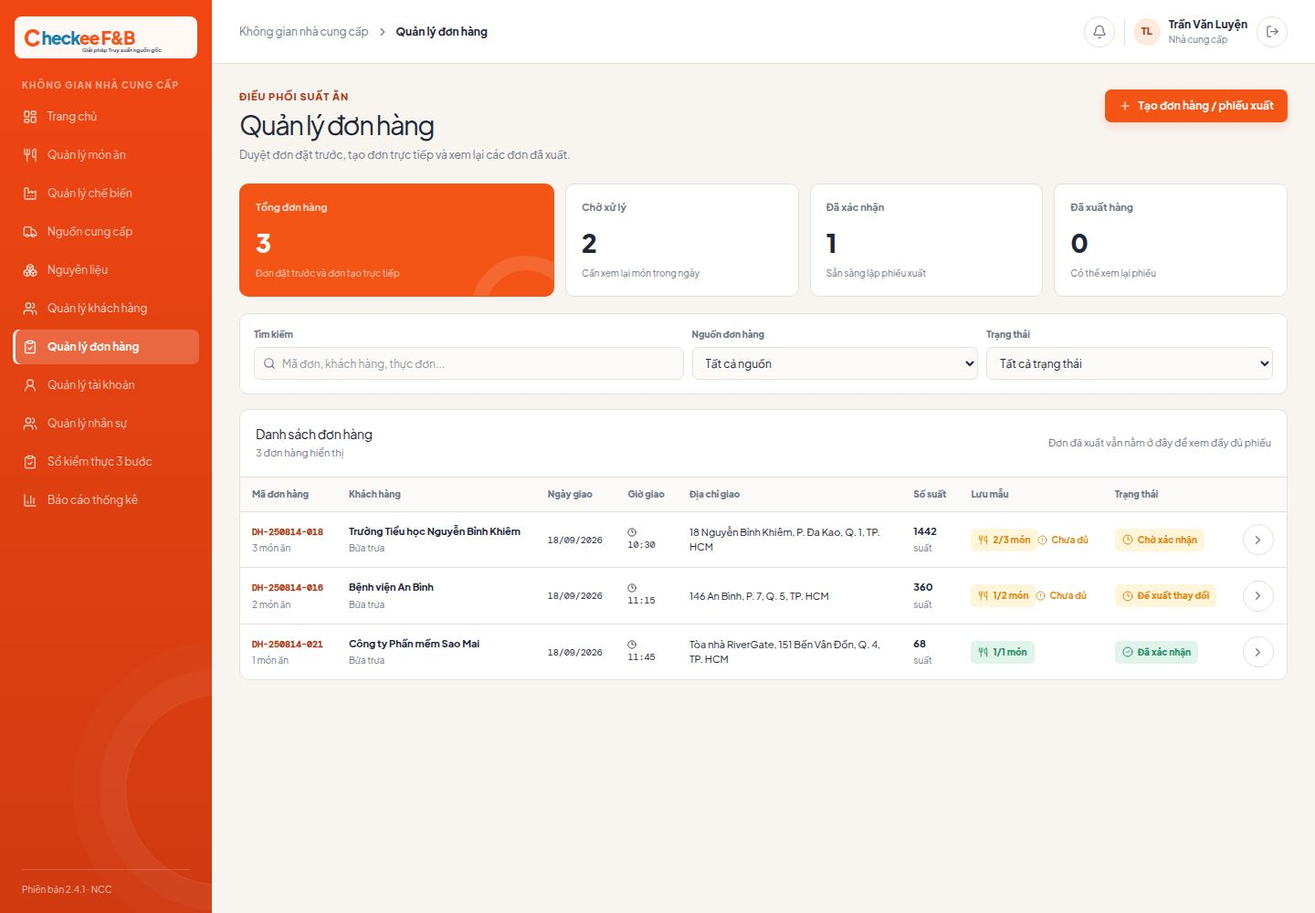
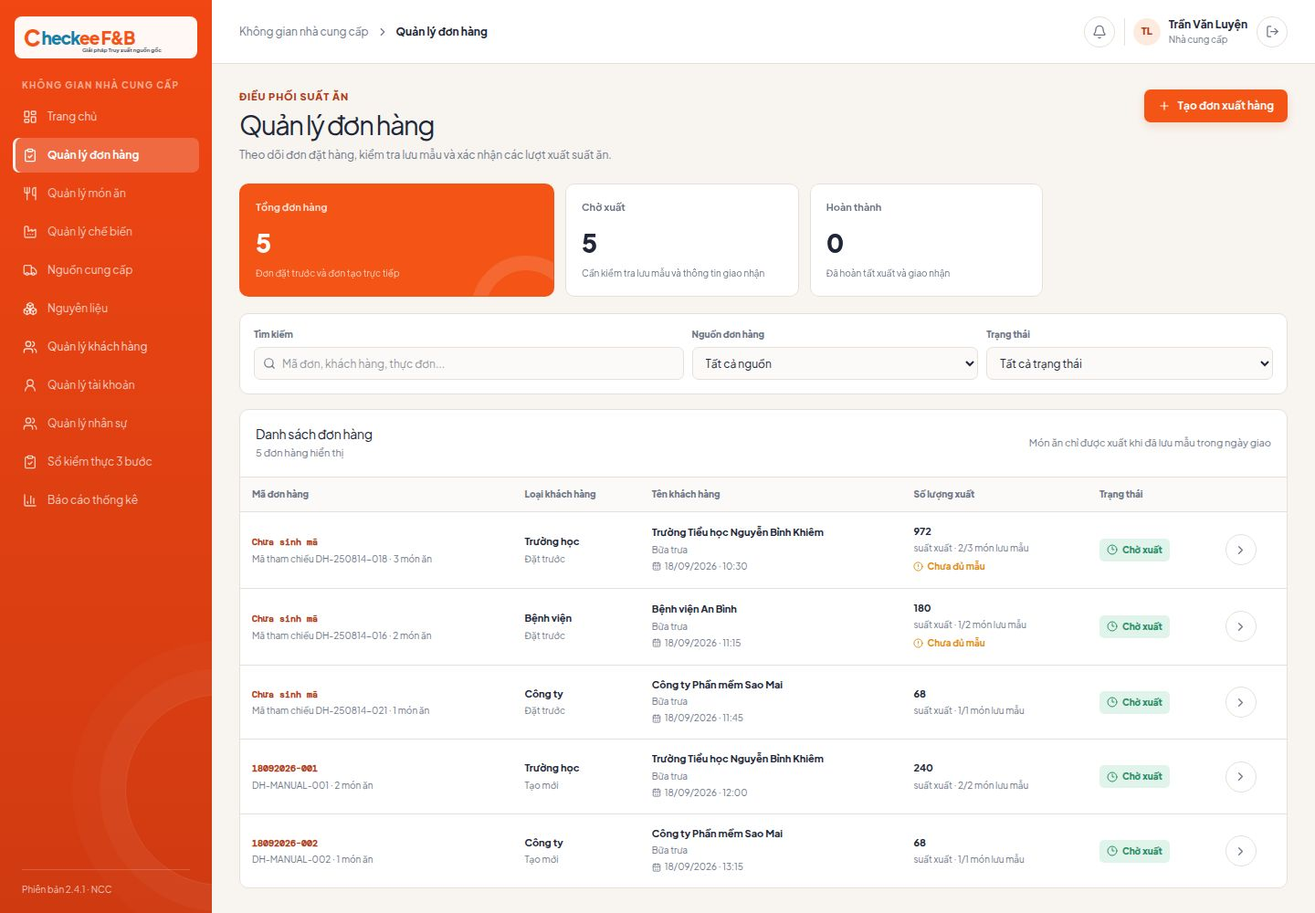
đơn hàng

diff --git a/artifacts/checkee-fnb/src/pages/business-workflows.tsx b/artifacts/checkee-fnb/src/pages/business-workflows.tsx
@@ -230,7 +230,7 @@ export type CreateDispatchSlipInput = {
 };
 
 const CUSTOMER_STORAGE = 'checkee-fnb-customers-v1';
-const ORDER_STORAGE = 'checkee-fnb-orders-v1';
+const ORDER_STORAGE = 'checkee-fnb-orders-v3';
 const dateOnly = (date: Date) => date.toISOString().slice(0, 10);
 const today = dateOnly(new Date());
 const inDays = (days: number) => dateOnly(new Date(Date.now() + days * 86400000));
@@ -239,7 +239,7 @@ const displayDate = (value: string) => new Intl.DateTimeFormat('vi-VN', { day: '
 const batchCodeFor = (date: string, sequence: number) => {
   if (!date) return '';
   const [year, month, day] = date.split('-');
-  return `${day}${month}${year}-${String(sequence).padStart(2, '0')}`;
+  return `${day}${month}${year}-${String(sequence).padStart(3, '0')}`;
 };
 const sampleStatus = (item: OrderItem) => item.sampleStatus ?? 'Chưa lưu';
 const MEAL_OPTIONS = ['Sáng', 'Trưa', 'Xế', 'Tối'] as const;
@@ -338,6 +338,7 @@ const seedCustomers: CustomerRecord[] = [
 const seedOrders: OrderRecord[] = [
   {
     id: 'DH-250814-018',
+    orderCode: undefined,
     customerId: 'KH-001',
     customer: 'Trường Tiểu học Nguyễn Bỉnh Khiêm',
     source: 'A',
@@ -345,7 +346,7 @@ const seedOrders: OrderRecord[] = [
     meal: 'Bữa trưa',
     deliveryDate: today,
     deliveryTime: '10:30',
-    status: 'Chờ xác nhận',
+    status: 'Đã xuất hàng',
     unitPrice: 26000,
     createdAt: new Date().toISOString(),
     items: [
@@ -356,6 +357,7 @@ const seedOrders: OrderRecord[] = [
   },
   {
     id: 'DH-250814-016',
+    orderCode: undefined,
     customerId: 'KH-002',
     customer: 'Bệnh viện An Bình',
     source: 'A',
@@ -374,9 +376,10 @@ const seedOrders: OrderRecord[] = [
   },
   {
     id: 'DH-250814-021',
+    orderCode: undefined,
     customerId: 'KH-003',
     customer: 'Công ty Phần mềm Sao Mai',
-    source: 'B',
+    source: 'A',
     menu: 'Suất văn phòng tiêu chuẩn',
     meal: 'Bữa trưa',
     deliveryDate: today,
@@ -386,6 +389,45 @@ const seedOrders: OrderRecord[] = [
     createdAt: new Date(Date.now() - 7200000).toISOString(),
     items: [
       { id: 'oi-6', dish: 'Cơm gà nướng mật ong', meal: 'Bữa trưa', requestedQuantity: 68, supplierQuantity: 68, sampleStatus: 'Đã lưu', sampleSavedAt: '10:40' },
+    ],
+  },
+  {
+    id: 'DH-MANUAL-001',
+    orderCode: batchCodeFor(today, 1),
+    customerId: 'KH-001',
+    customer: 'Trường Tiểu học Nguyễn Bỉnh Khiêm',
+    customerType: 'Trường học',
+    source: 'B',
+    menu: 'Mì trộn hải sản · Trứng gà',
+    meal: 'Bữa trưa',
+    deliveryDate: today,
+    deliveryTime: '12:00',
+    deliveryAddress: '18 Nguyễn Bỉnh Khiêm, P. Đa Kao, Q. 1, TP. HCM',
+    status: 'Đã xác nhận',
+    unitPrice: 26000,
+    createdAt: new Date(Date.now() - 10800000).toISOString(),
+    items: [
+      { id: 'oi-7', dish: 'Mì trộn hải sản', meal: 'Bữa trưa', requestedQuantity: 120, supplierQuantity: 120, sampleStatus: 'Đã lưu', sampleSavedAt: '10:20' },
+      { id: 'oi-8', dish: 'Trứng gà', meal: 'Bữa trưa', requestedQuantity: 120, supplierQuantity: 120, sampleStatus: 'Đã lưu', sampleSavedAt: '10:25' },
+    ],
+  },
+  {
+    id: 'DH-MANUAL-002',
+    orderCode: batchCodeFor(today, 2),
+    customerId: 'KH-003',
+    customer: 'Công ty Phần mềm Sao Mai',
+    customerType: 'Công ty',
+    source: 'B',
+    menu: 'Cơm gà nướng mật ong',
+    meal: 'Bữa trưa',
+    deliveryDate: today,
+    deliveryTime: '13:15',
+    deliveryAddress: 'Tòa nhà RiverGate, 151 Bến Vân Đồn, Q. 4, TP. HCM',
+    status: 'Chờ xác nhận',
+    unitPrice: 38000,
+    createdAt: new Date(Date.now() - 14400000).toISOString(),
+    items: [
+      { id: 'oi-9', dish: 'Cơm gà nướng mật ong', meal: 'Bữa trưa', requestedQuantity: 68, supplierQuantity: 68, sampleStatus: 'Đã lưu', sampleSavedAt: '10:40' },
     ],
   },
 ];
@@ -634,7 +676,7 @@ function OrderForm({ customers, onSave, onCancel }: { customers: CustomerRecord[
       deliveryAddress: deliveryAddress.trim(),
       lotCode: generatedLotCode,
       traceability: traceabilityForItems(items, deliveryDate),
-      exportedAt: '',
+      exportedAt: new Date().toISOString(),
     };
     const missingDispatch: string[] = [];
     if (!draftDispatch.exporterName.trim()) missingDispatch.push('Tên người giao hàng');
@@ -656,7 +698,7 @@ function OrderForm({ customers, onSave, onCancel }: { customers: CustomerRecord[
       deliveryDate,
       deliveryTime,
       deliveryAddress: deliveryAddress.trim(),
-      status: 'Chờ xác nhận',
+      status: 'Đã xuất hàng',
       unitPrice: 0,
       changeRequest: note.trim() || undefined,
       dispatch: draftDispatch,
@@ -717,34 +759,38 @@ export function OrderManagement({ createSlip }: { createSlip: (input: CreateDisp
     return (!search || query.includes(search.toLowerCase())) && (source === 'Tất cả nguồn' || order.source === source) && (status === 'Tất cả trạng thái' || orderStatusLabel(order.status) === status);
   }), [orders, search, source, status]);
   const renderOrderRow = (order: OrderRecord) => {
-    const quantity = Math.max(...order.items.map((item) => item.supplierQuantity), 0);
+    const exportList = order.exportItems
+      ?? (order.source === 'A'
+        ? order.items.filter((item) => order.exportItemIds ? order.exportItemIds.includes(item.id) : sampleStatus(item) === 'Đã lưu')
+        : order.items);
+    const quantity = exportList.reduce((sum, item) => sum + item.supplierQuantity, 0);
     const savedSamples = order.items.filter((item) => sampleStatus(item) === 'Đã lưu').length;
     const samplesComplete = savedSamples === order.items.length;
     const customer = customers.find((item) => item.id === order.customerId);
     return (
       <tr key={order.id} data-testid={`row-order-${order.id}`}>
         <td>
-          <Link href={`/quan-ly-don-hang/${order.id}`} className="slip-link mono" data-testid={`link-order-${order.id}`}>
-            {order.orderCode ?? 'Chưa sinh mã'}
-          </Link>
-          <span className="subtext">{orderListReference(order)}</span>
+          {order.orderCode ? <>
+            <Link href={`/quan-ly-don-hang/${order.id}`} className="slip-link mono" data-testid={`link-order-${order.id}`}>
+              {order.orderCode}
+            </Link>
+            <span className="subtext">{orderListReference(order)}</span>
+          </> : null}
         </td>
-        <td><span className="customer-name">{order.customer}</span><span className="subtext">{order.meal}</span></td>
-        <td><span className="mono">{displayDate(order.deliveryDate)}</span></td>
-        <td><span className="mono"><Clock3 size={10} style={{ verticalAlign: 'middle', marginRight: 3 }} />{order.deliveryTime}</span></td>
-        <td><span className="address-cell">{order.deliveryAddress || customer?.deliveryAddress || 'Chưa cập nhật'}</span></td>
-        <td><strong>{quantity}</strong><span className="subtext">suất</span></td>
-        <td>
-          <span className={`badge ${samplesComplete ? 'badge-pass' : 'badge-warn'}`}><Utensils size={11} />{savedSamples}/{order.items.length} món</span>
-          {!samplesComplete && <span className="warning-note"><AlertCircle size={11} />Chưa đủ</span>}
-        </td>
+        <td><span className={`badge ${order.source === 'A' ? 'badge-source-a' : 'badge-source-b'}`}>{order.source === 'A' ? <ClipboardList size={12} /> : <Pencil size={12} />}{order.source === 'A' ? 'Đặt hàng' : 'Tạo thủ công'}</span></td>
+        <td><span className="type-cell">{order.customerType ?? customer?.type ?? 'Chưa cập nhật'}</span></td>
+        <td><span className="customer-name">{order.customer}</span><span className="subtext">{order.meal}</span><span className="subtext delivery-datetime"><CalendarDays size={10} />{displayDate(order.deliveryDate)} · {order.deliveryTime}</span></td>
+        <td><strong>{quantity}</strong><span className="subtext">suất xuất · {savedSamples}/{order.items.length} món lưu mẫu</span>{!samplesComplete && <span className="warning-note"><AlertCircle size={11} />Chưa đủ mẫu</span>}</td>
         <td><OrderStatusBadge status={order.status} />{order.dispatch && <span className="subtext"><CheckCircle2 size={10} style={{ verticalAlign: 'middle', marginRight: 3 }} />Có phiếu xuất</span>}</td>
         <td><Link href={`/quan-ly-don-hang/${order.id}`} className="icon-button" aria-label={`Xem ${order.id}`} data-testid={`button-view-order-${order.id}`}><ChevronRight size={15} /></Link></td>
       </tr>
     );
   };
   if (params.id === 'moi') return <OrderForm customers={customers} onSave={(order) => {
-    saveOrders([order, ...orders]);
+     const nextOrder = order.source === 'B' && !order.orderCode
+       ? { ...order, orderCode: batchCodeFor(order.deliveryDate, orders.filter((item) => item.deliveryDate === order.deliveryDate && item.orderCode).length + 1) }
+       : order;
+     saveOrders([nextOrder, ...orders]);
     setLocation(`/quan-ly-don-hang/${order.id}`);
   }} onCancel={() => setLocation('/quan-ly-don-hang')} />;
   if (params.id) {
@@ -756,8 +802,8 @@ export function OrderManagement({ createSlip }: { createSlip: (input: CreateDisp
     <main className="content-wrap">
        <div className="page-heading"><div><p className="eyebrow">Điều phối suất ăn</p><h1>Quản lý đơn hàng</h1><p className="page-subtitle">Theo dõi đơn đặt hàng, kiểm tra lưu mẫu và xác nhận các lượt xuất suất ăn.</p></div><button className="button button-primary" onClick={() => setLocation('/quan-ly-don-hang/moi')} data-testid="button-create-manual-order"><Plus size={14} /> Tạo đơn xuất hàng</button></div>
         <section className="stats-grid order-stats"><div className="stat-card primary"><div className="stat-label">Tổng đơn hàng</div><div className="stat-value" data-testid="stat-orders">{orders.length}</div><div className="stat-meta">Đơn đặt trước và đơn tạo trực tiếp</div></div><div className="stat-card"><div className="stat-label">Chờ xuất</div><div className="stat-value">{orders.filter((item) => orderStatusLabel(item.status) === 'Chờ xuất').length}</div><div className="stat-meta">Cần kiểm tra lưu mẫu và thông tin giao nhận</div></div><div className="stat-card"><div className="stat-label">Hoàn thành</div><div className="stat-value">{orders.filter((item) => orderStatusLabel(item.status) === 'Hoàn thành').length}</div><div className="stat-meta">Đã hoàn tất xuất và giao nhận</div></div></section>
-        <section className="filters-panel"><div className="filter-grid order-filters"><div className="field order-search"><label className="field-label" htmlFor="order-search">Tìm kiếm</label><div style={{ position: 'relative' }}><Search size={14} style={{ position: 'absolute', left: 10, top: 11, color: 'hsl(220 10% 48%)' }} /><input id="order-search" className="input" style={{ paddingLeft: 30 }} value={search} onChange={(event) => setSearch(event.target.value)} placeholder="Mã đơn, khách hàng, thực đơn..." data-testid="input-search-orders" /></div></div><div className="field"><label className="field-label" htmlFor="order-source-filter">Nguồn đơn hàng</label><select id="order-source-filter" className="select" value={source} onChange={(event) => setSource(event.target.value)} data-testid="select-filter-order-source"><option>Tất cả nguồn</option><option value="A">Từ hệ thống khách hàng</option><option value="B">Tạo thủ công</option></select></div><div className="field"><label className="field-label" htmlFor="order-status-filter">Trạng thái</label><select id="order-status-filter" className="select" value={status} onChange={(event) => setStatus(event.target.value)} data-testid="select-filter-order-status"><option>Tất cả trạng thái</option><option>Chờ xuất</option><option>Hoàn thành</option></select></div></div></section>
-         <section className="table-card"><div className="table-toolbar"><div><h2 className="table-title">Danh sách đơn hàng</h2><span className="table-note">{filtered.length} đơn hàng hiển thị</span></div><span className="table-note">Món ăn chỉ được xuất khi đã lưu mẫu trong ngày giao</span></div><div className="table-scroll"><table className="data-table order-table"><thead><tr><th>Mã đơn hàng</th><th>Khách hàng</th><th>Ngày giao</th><th>Giờ giao</th><th>Địa chỉ giao</th><th>Số suất</th><th>Lưu mẫu</th><th>Trạng thái</th><th /></tr></thead><tbody>{filtered.length === 0 ? <tr><td colSpan={9}><div className="empty-state"><ClipboardList size={25} style={{ marginBottom: 8 }} /><div>Không có đơn hàng phù hợp</div></div></td></tr> : filtered.map(renderOrderRow)}</tbody></table></div></section>
+        <section className="filters-panel"><div className="filter-grid order-filters"><div className="field order-search"><label className="field-label" htmlFor="order-search">Tìm kiếm</label><div style={{ position: 'relative' }}><Search size={14} style={{ position: 'absolute', left: 10, top: 11, color: 'hsl(220 10% 48%)' }} /><input id="order-search" className="input" style={{ paddingLeft: 30 }} value={search} onChange={(event) => setSearch(event.target.value)} placeholder="Mã đơn, khách hàng, thực đơn..." data-testid="input-search-orders" /></div></div><div className="field"><label className="field-label" htmlFor="order-source-filter">Nguồn đơn hàng</label><select id="order-source-filter" className="select" value={source} onChange={(event) => setSource(event.target.value)} data-testid="select-filter-order-source"><option>Tất cả nguồn</option><option value="A">Đặt hàng</option><option value="B">Tạo thủ công</option></select></div><div className="field"><label className="field-label" htmlFor="order-status-filter">Trạng thái</label><select id="order-status-filter" className="select" value={status} onChange={(event) => setStatus(event.target.value)} data-testid="select-filter-order-status"><option>Tất cả trạng thái</option><option>Chờ xuất</option><option>Hoàn thành</option></select></div></div></section>
+          <section className="table-card"><div className="table-toolbar"><div><h2 className="table-title">Danh sách đơn hàng</h2><span className="table-note">{filtered.length} đơn hàng hiển thị</span></div><span className="table-note">Món ăn chỉ được xuất khi đã lưu mẫu trong ngày giao</span></div><div className="table-scroll"><table className="data-table order-table"><thead><tr><th>Mã đơn hàng</th><th>Nguồn đơn hàng</th><th>Loại khách hàng</th><th>Tên khách hàng</th><th>Số lượng xuất</th><th>Trạng thái</th><th aria-label="Thao tác" /></tr></thead><tbody>{filtered.length === 0 ? <tr><td colSpan={7}><div className="empty-state"><ClipboardList size={25} style={{ marginBottom: 8 }} /><div>Không có đơn hàng phù hợp</div></div></td></tr> : filtered.map(renderOrderRow)}</tbody></table></div></section>
     </main>
   );
 }
@@ -854,6 +900,7 @@ function OrderDetail({ order, customer, batchCode, onUpdate, createSlip }: { ord
   const [draft, setDraft] = useState<OrderRecord | undefined>(order);
   const [dispatchError, setDispatchError] = useState('');
   const [selectedExportDish, setSelectedExportDish] = useState('');
+  const [sampleOpenId, setSampleOpenId] = useState<string | null>(null);
   const [dispatch, setDispatch] = useState<DispatchDetails>(() => createDispatchDraft(order, customer, batchCode));
 
   if (!draft) return <main className="content-wrap not-found"><div><ClipboardList size={30} color="hsl(17 91% 52%)" /><h1>Không tìm thấy đơn hàng</h1><button className="button button-primary" onClick={() => setLocation('/quan-ly-don-hang')} data-testid="button-back-orders">Về danh sách đơn hàng</button></div></main>;
@@ -863,6 +910,7 @@ function OrderDetail({ order, customer, batchCode, onUpdate, createSlip }: { ord
   const exportItemIds = exportItems.map((item) => item.id);
   const availableExportDishes = savedSampleMenu.filter((menuItem) => !exportItems.some((item) => item.dish === menuItem.dish));
   const totalQuantity = exportItems.reduce((sum, item) => sum + item.supplierQuantity, 0);
+  const sampleItem = sampleOpenId ? draft.items.find((item) => item.id === sampleOpenId) ?? exportItems.find((item) => item.id === sampleOpenId) : undefined;
   const updateDraft = (changes: Partial<OrderRecord>) => {
     const updated = { ...draft, ...changes };
     setDraft(updated);
@@ -920,7 +968,7 @@ function OrderDetail({ order, customer, batchCode, onUpdate, createSlip }: { ord
       setDispatchError(`Vui lòng bổ sung: ${missing.join(', ')}.`);
       return;
     }
-    const orderCode = draft.orderCode ?? `DH-${draft.deliveryDate.replaceAll('-', '').slice(2)}-${String(Date.now()).slice(-3)}`;
+    const orderCode = draft.orderCode ?? batchCode;
     if (draft.source === 'A' && exportItems.length === 0) {
       setDispatchError('Vui lòng chọn ít nhất một món trong Danh sách xuất.');
       return;
@@ -968,24 +1016,26 @@ function OrderDetail({ order, customer, batchCode, onUpdate, createSlip }: { ord
       </div>
       <div className="order-detail-form">
         <section className="panel">
-          <div className="panel-header"><div><h2 className="panel-heading">① Thông tin đơn hàng</h2><p className="panel-kicker">Mã đơn hàng chỉ được sinh sau khi xuất hàng.</p></div><SourceBadge source={draft.source} /></div>
+           <div className="panel-header"><div><h2 className="panel-heading">① Thông tin đơn hàng</h2><p className="panel-kicker">{draft.source === 'A' ? 'Mã đơn hàng chỉ được sinh sau khi xuất hàng.' : 'Đơn tạo thủ công đã sinh mã ngay khi hoàn tất tạo đơn.'}</p></div><SourceBadge source={draft.source} /></div>
           <div className="readonly-grid">
             <div className="readonly-field"><span className="field-label">Mã đơn hàng</span><div className="readonly-value mono">{draft.orderCode ?? 'Chưa sinh mã đơn hàng'}</div></div>
             <div className="readonly-field"><span className="field-label">Loại khách hàng</span><div className="readonly-value">{draft.customerType ?? customer?.type ?? 'Chưa cập nhật'}</div></div>
             <div className="readonly-field"><span className="field-label">Tên khách hàng</span><div className="readonly-value">{draft.customer}</div></div>
             <div className="readonly-field form-span-2"><span className="field-label">Địa chỉ</span><div className="readonly-value">{draft.deliveryAddress || customer?.deliveryAddress || 'Chưa cập nhật'}</div></div>
-            <div className="readonly-field"><span className="field-label">Ngày đặt</span><div className="readonly-value">{displayDate(draft.deliveryDate)}</div></div>
+             <div className="readonly-field"><span className="field-label">Ngày giao</span><div className="readonly-value">{displayDate(draft.deliveryDate)}</div></div>
+             <div className="readonly-field"><span className="field-label">Giờ giao</span><div className="readonly-value"><Clock3 size={13} style={{ verticalAlign: 'middle', marginRight: 4 }} />{draft.deliveryTime}</div></div>
              <div className="readonly-field"><span className="field-label">Tổng số suất xuất</span><div className="readonly-value">{totalQuantity} suất</div></div>
           </div>
         </section>
-         <section className="panel">
-           {draft.source === 'A' ? <div className="table-scroll order-detail-meal-scroll"><table className="meal-table order-detail-meal-table"><thead><tr><th>Tên món ăn</th><th>Số lượng đặt</th><th>Buổi</th></tr></thead><tbody>{draft.items.map((item) => <tr key={item.id}><td><strong>{item.dish}</strong></td><td>{item.requestedQuantity} suất</td><td>{mealDisplay(item.meal)}</td></tr>)}</tbody></table></div> : <div className="table-scroll order-detail-meal-scroll"><table className="meal-table order-detail-meal-table"><thead><tr><th>Tên món ăn</th><th>Số lượng</th><th>Buổi</th></tr></thead><tbody>{draft.items.map((item) => <tr key={item.id}><td><strong>{item.dish}</strong></td><td>{item.supplierQuantity} suất</td><td>{mealDisplay(item.meal)}</td></tr>)}</tbody></table></div>}
+          <section className="panel">
+            <div className="table-scroll order-detail-meal-scroll"><table className="meal-table order-detail-meal-table"><thead><tr><th>Tên món ăn</th><th>{draft.source === 'A' ? 'Số lượng đặt' : 'Số lượng'}</th><th>Buổi</th></tr></thead><tbody>{draft.items.map((item) => <tr key={item.id}><td><strong>{item.dish}</strong></td><td>{draft.source === 'A' ? item.requestedQuantity : item.supplierQuantity} suất</td><td>{mealDisplay(item.meal)}</td></tr>)}</tbody></table></div>
          </section>
          {draft.source === 'A' && <section className="panel">
             <div className="panel-header"><div><h2 className="panel-heading">③ Danh sách xuất</h2><p className="panel-kicker">Chọn món từ danh sách hệ thống đã lưu mẫu để đưa vào phiếu xuất.</p></div><Truck size={17} color="hsl(17 91% 52%)" /></div>
             <div className="add-dish-row"><select className="select" value={selectedExportDish} onChange={(event) => setSelectedExportDish(event.target.value)} aria-label="Chọn món đã lưu mẫu để xuất" disabled={isExported} data-testid="select-detail-export-dish"><option value="">Chọn món đã lưu mẫu</option>{availableExportDishes.map((item) => <option value={item.dish} key={item.dish}>{item.dish}</option>)}</select><button type="button" className="button button-quiet" onClick={addExportDish} disabled={isExported || !selectedExportDish} data-testid="button-add-detail-export-dish"><Plus size={14} /> Thêm món</button></div>
-            {exportItems.length === 0 ? <div className="empty-state manual-dish-empty"><Truck size={24} /><div>Chưa có món xuất</div><span>Chọn món đã lưu mẫu ở trên để thêm vào danh sách xuất.</span></div> : <div className="manual-dish-list">{exportItems.map((item) => <div className="manual-dish-item" key={item.id}><div><strong>{item.dish}</strong><span className="subtext">Đã lưu mẫu</span></div><div className="manual-dish-meal"><label className="field-label" htmlFor={`detail-meal-${item.id}`}>Buổi</label><select id={`detail-meal-${item.id}`} className="select" value={mealOptionFor(item.meal)} onChange={(event) => updateExportMeal(item.id, event.target.value as MealOption)} disabled={isExported} data-testid={`select-detail-export-meal-${item.id}`}>{MEAL_OPTIONS.map((option) => <option value={option} key={option}>{option}</option>)}</select></div><div className="manual-dish-quantity"><label className="field-label" htmlFor={`detail-quantity-${item.id}`}>Số suất</label><div className="quantity-input"><input id={`detail-quantity-${item.id}`} className="input" type="number" min="1" value={item.supplierQuantity} onChange={(event) => updateExportQuantity(item.id, event.target.value)} disabled={isExported} data-testid={`input-export-quantity-${item.id}`} /><span>suất</span></div></div><div className="manual-dish-actions"><SampleStatusBadge status={item.sampleStatus} /></div><button type="button" className="remove-row" onClick={() => removeExportDish(item.id)} disabled={isExported} aria-label={`Xóa ${item.dish} khỏi danh sách xuất`} data-testid={`button-remove-detail-export-dish-${item.id}`}><X size={13} /></button></div>)}</div>}
+             {exportItems.length === 0 ? <div className="empty-state manual-dish-empty"><Truck size={24} /><div>Chưa có món xuất</div><span>Chọn món đã lưu mẫu ở trên để thêm vào danh sách xuất.</span></div> : <div className="manual-dish-list">{exportItems.map((item) => <div className="manual-dish-item" key={item.id}><div><strong>{item.dish}</strong><span className="subtext">Đã lưu mẫu</span></div><div className="manual-dish-meal"><label className="field-label" htmlFor={`detail-meal-${item.id}`}>Buổi</label><select id={`detail-meal-${item.id}`} className="select" value={mealOptionFor(item.meal)} onChange={(event) => updateExportMeal(item.id, event.target.value as MealOption)} disabled={isExported} data-testid={`select-detail-export-meal-${item.id}`}>{MEAL_OPTIONS.map((option) => <option value={option} key={option}>{option}</option>)}</select></div><div className="manual-dish-quantity"><label className="field-label" htmlFor={`detail-quantity-${item.id}`}>Số suất</label><div className="quantity-input"><input id={`detail-quantity-${item.id}`} className="input" type="number" min="1" value={item.supplierQuantity} onChange={(event) => updateExportQuantity(item.id, event.target.value)} disabled={isExported} data-testid={`input-export-quantity-${item.id}`} /><span>suất</span></div></div><div className="manual-dish-actions"><SampleStatusBadge status={item.sampleStatus} /><button type="button" className="text-button" onClick={() => setSampleOpenId(item.id)} data-testid={`button-open-export-sample-${item.id}`}><Eye size={12} /> Xem chi tiết</button></div><button type="button" className="remove-row" onClick={() => removeExportDish(item.id)} disabled={isExported} aria-label={`Xóa ${item.dish} khỏi danh sách xuất`} data-testid={`button-remove-detail-export-dish-${item.id}`}><X size={13} /></button></div>)}</div>}
          </section>}
+         {sampleItem && <SampleViewer item={sampleItem} deliveryDate={draft.deliveryDate} onClose={() => setSampleOpenId(null)} />}
         <section className="panel">
            <div className="panel-header"><div><h2 className="panel-heading">{draft.source === 'A' ? '④' : '③'} Thông tin vận chuyển</h2><p className="panel-kicker">Nhập thông tin giao hàng và ký tên trực tiếp trên giao diện.</p></div><Truck size={17} color="hsl(17 91% 52%)" /></div>
           <div className="form-grid-3">

diff --git a/artifacts/checkee-fnb/src/index.css b/artifacts/checkee-fnb/src/index.css
@@ -342,9 +342,11 @@ h1 { font-size: clamp(22px, 2.2vw, 29px); line-height: 1.15; letter-spacing: -.0
 .customer-filters, .order-filters { grid-template-columns: 1.5fr 1fr 1fr; }
 .customer-search, .order-search { min-width: 0; }
 .customer-table { min-width: 1120px; }
-.order-table { min-width: 1080px; }
+.order-table { min-width: 820px; }
 .type-cell { display: inline-flex; align-items: center; gap: 6px; font-weight: 700; white-space: nowrap; }
 .address-cell { display: block; max-width: 215px; line-height: 1.45; }
+.delivery-datetime { display: inline-flex; align-items: center; gap: 4px; }
+.sample-inline-button { display: inline-flex; align-items: center; gap: 4px; white-space: nowrap; }
 .manual-dish-list { display: grid; gap: 8px; }
 .manual-dish-item { display: grid; grid-template-columns: minmax(0, 1fr) 110px 130px auto 28px; align-items: center; gap: 10px; padding: 11px 12px; border: 1px solid hsl(var(--border)); border-radius: 8px; background: hsl(var(--surface-soft)); }
 .manual-dish-item > div:first-child { min-width: 0; }
